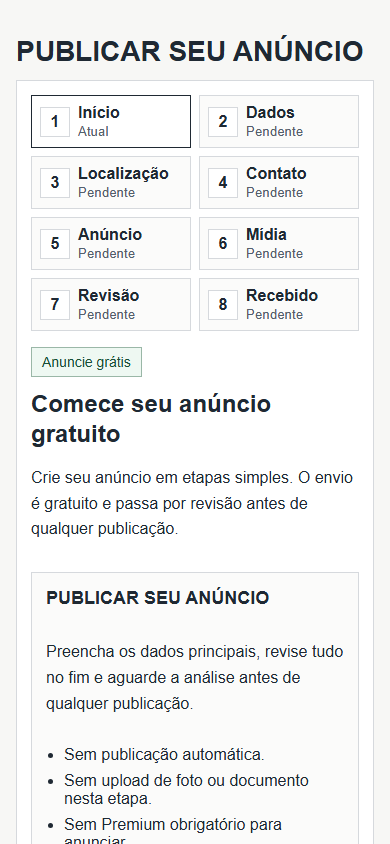
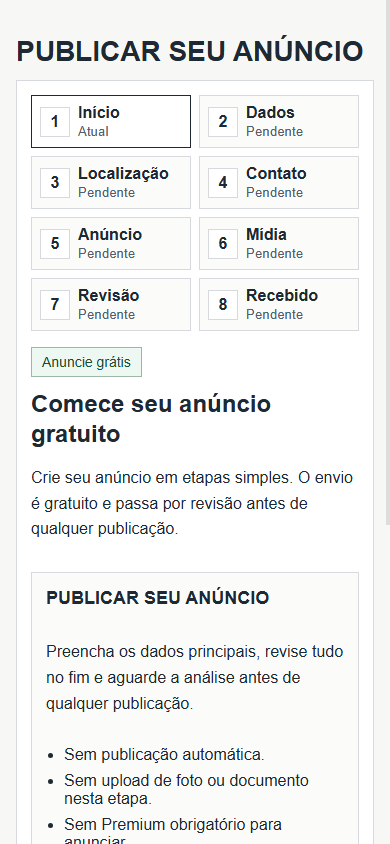
docs: consolida mvp local sintetico ate bloco 41

Changed region(s): [[0.9846, 0.0, 1.0, 0.6469]]

diff --git a/docs/v3/SDD.md b/docs/v3/SDD.md
@@ -1,6 +1,6 @@
 # SDD Tops do Job V3
 
-Documento central de Specification-Driven Development da V3. Ele consolida o estado local do projeto ate o Bloco 40, com checkpoint local `f6189f0` do Bloco 32.1, checkpoint local `b7f5f98` dos Blocos 33/33.1, checkpoint local corrigido `9b677ea` do Bloco 34, checkpoint local `00e1a02` do Bloco 35, checkpoint local `e031ea3` do Bloco 36, checkpoint local `a6f431f` do Bloco 37 corrigido, checkpoint local `587e2df` do Bloco 38, checkpoint local `a3e92c0` do Bloco 39, E2E/API/SEO sintetico aprovado, auditoria renderizada publica aprovada, validacao sintetica do wizard `/anunciar`, paridade local do wizard com a producao observavel, validacao admin/moderacao sintetica local, validacao Premium/beneficios sintetica local, validacao Age Gate/WhatsApp sintetica local aprovada, validacao de midia/fotos/stories sintetica local no Bloco 40, Bloco 29 adiado como gate de pre-staging/cutover, checkpoint local `36b94c6` dos Blocos 29 a 29.6 e base sintetica local validada para continuidade sem dados reais.
+Documento central de Specification-Driven Development da V3. Ele consolida o estado local do projeto ate o Bloco 41, com checkpoint local `f6189f0` do Bloco 32.1, checkpoint local `b7f5f98` dos Blocos 33/33.1, checkpoint local corrigido `9b677ea` do Bloco 34, checkpoint local `00e1a02` do Bloco 35, checkpoint local `e031ea3` do Bloco 36, checkpoint local `a6f431f` do Bloco 37 corrigido, checkpoint local `587e2df` do Bloco 38, checkpoint local `a3e92c0` do Bloco 39, checkpoint local `f67880a` do Bloco 40 corrigido, E2E/API/SEO sintetico aprovado, auditoria renderizada publica aprovada, validacao sintetica do wizard `/anunciar`, paridade local do wizard com a producao observavel, validacao admin/moderacao sintetica local, validacao Premium/beneficios sintetica local, validacao Age Gate/WhatsApp sintetica local aprovada, validacao de midia/fotos/stories sintetica local aprovada e MVP local sintetico consolidado no Bloco 41, Bloco 29 adiado como gate de pre-staging/cutover, checkpoint local `36b94c6` dos Blocos 29 a 29.6 e base sintetica local validada para continuidade sem dados reais.
 
 ## 1. Visao geral
 
@@ -35,6 +35,7 @@ Estado atual:
 - Bloco 38 cria checkpoint local do Bloco 37 corrigido em `a6f431f` e troca rótulos públicos redundantes de status/acesso por copy natural, sem alterar regra de negócio, backend, banco, DTO, rota, contrato, autorização, Premium ou pagamento;
 - Bloco 39 cria checkpoint local do Bloco 38 em `587e2df` e valida Age Gate/WhatsApp sintético local para `LIVRE`/`BLOQUEADO`, sem produção, dados reais, restore, Pix/Efi real, pagamento, API externa ou push;
 - Bloco 40 cria checkpoint local do Bloco 39 em `a3e92c0` e valida mídia/fotos/stories sintéticos, placeholders seguros e sanitização de mídia admin/publica, sem upload real, CDN/storage real, dados reais, produção, restore, Pix/Efi real, pagamento, API externa ou push;
+- Bloco 41 cria checkpoint local do Bloco 40 corrigido em `f67880a` e consolida o MVP local sintetico, revalidando os fluxos principais ja cobertos sem criar funcionalidade nova;
 - dados reais, producao, VPS, banco de producao, Efi real e APIs externas fora de uso.
 
 ## 2. Escopo e limites
@@ -390,6 +391,7 @@ Historico resumido:
 - Bloco 38: checkpoint local do Bloco 37 corrigido criado em `a6f431f`; `Fluxo autorizado` e `Autorização autorizada` deixam de aparecer como pares públicos, substituidos por `Status / Conteúdo disponível` e `Acesso / permitido`.
 - Bloco 39: checkpoint local do Bloco 38 criado em `587e2df`; Age Gate/WhatsApp sintetico local valida `LIVRE` sem age gate, `BLOQUEADO` protegido antes da idade, menor de 18 anos bloqueado, data invalida com 400 e WhatsApp mediado pelo backend.
 - Bloco 40: checkpoint local do Bloco 39 criado em `a3e92c0`; midia publica sintetica valida gratuito ate 2 fotos, Premium com midia extra aditiva, placeholders seguros, stories com idade sem URL real e admin de midia sanitizado.
+- Bloco 41: checkpoint local do Bloco 40 corrigido criado em `f67880a`; MVP local sintetico consolidado com validacoes de publico renderizado, SEO sintetico, wizard, admin/moderacao, Premium/beneficios, Age Gate/WhatsApp, midia/fotos/stories e E2E sintetico.
 
 Detalhes e rastreabilidade ficam em `docs/v3/SDD-indice-rastreabilidade.md`.
 

diff --git a/docs/v3/evidencias/bloco-41/relatorio-validacoes.md b/docs/v3/evidencias/bloco-41/relatorio-validacoes.md
@@ -1,0 +1,33 @@
+# Relatorio de validacoes do Bloco 41
+
+## Status
+
+`OK_BLOCO_41_VALIDACOES_LOCAIS_SINTETICAS`
+
+## Validacoes executadas
+
+- `scripts/local/validar-midia-publica-sintetica-local.ps1`: OK, `OK_MIDIA_PUBLICA_SINTETICA_LOCAL`.
+- `scripts/local/validar-agegate-whatsapp-sintetico-local.ps1`: OK, `OK_AGEGATE_WHATSAPP_SINTETICO_LOCAL`.
+- `scripts/local/validar-publico-renderizado-sintetico-local.ps1`: OK, `OK_PUBLICO_RENDERIZADO_SINTETICO_LOCAL`.
+- `scripts/local/validar-premium-beneficios-sintetico-local.ps1`: OK, `OK_PREMIUM_BENEFICIOS_SINTETICO_LOCAL`.
+- `scripts/local/validar-admin-moderacao-sintetica-local.ps1`: OK, `OK_ADMIN_MODERACAO_SINTETICA_LOCAL`.
+- `scripts/local/validar-wizard-anunciar-sintetico-local.ps1`: OK, `OK_WIZARD_ANUNCIAR_SINTETICO_LOCAL`.
+- `scripts/local/validar-e2e-sintetico-local.ps1`: OK, `OK_E2E_SINTETICO_LOCAL`.
+- `scripts/local/validar-dados-sinteticos-v3-local.ps1`: OK, `OK_DADOS_SINTETICOS_LOCAL`.
+- `scripts/security/verificar-codificacao.ps1`: OK no pre-commit; antes do stage final, sem arquivos staged para revalidar.
+- `scripts/security/verificar-arquivos-proibidos.ps1`: OK no pre-commit; antes do stage final, sem arquivos staged para revalidar.
+- `scripts/security/verificar-segredos.ps1`: OK com fallback local; `gitleaks` permaneceu pendente no PATH.
+- `git diff --check`: OK apos normalizacao de EOF em relatorios UI gerados.
+- `git diff --cached --check`: OK.
+- `git status --short`: delta do Bloco 41 e evidencias regeneradas identificado.
+- `git remote -v`: vazio.
+- backend `mvn -q -DskipTests compile`: OK via Maven local ja disponivel.
+- backend `mvn -q test`: OK via Maven local ja disponivel.
+- frontend `npm run lint`: OK, sem warnings/erros ESLint.
+- frontend `npm run build`: OK, Next.js 15.3.4 gerou 27 paginas.
+
+## Observacoes
+
+- Os validadores que sobem banco local usaram PostgreSQL descartavel, aplicaram 17 migrations, aplicaram fixture sintetica, encerraram backend e removeram container/rede ao final.
+- Nenhum volume persistente foi criado pelos validadores reportados.
+- Nao houve producao, VPS, dados reais, restore, upload real, CDN/storage real, Pix/Efi real, pagamento real, API externa, push ou fase posterior.

diff --git a/docs/v3/232-bloco-41-consolidacao-mvp-local-sintetico.md b/docs/v3/232-bloco-41-consolidacao-mvp-local-sintetico.md
@@ -1,0 +1,52 @@
+# Bloco 41 - Consolidacao do MVP local sintetico
+
+## Objetivo
+
+Consolidar o estado do MVP local sintetico do Tops do Job V3 depois do Bloco 40 corrigido, sem criar funcionalidade nova e sem reabrir escopo de negocio.
+
+## Checkpoint consolidado
+
+- Checkpoint local do Bloco 40 corrigido: `f67880a`.
+- Mensagem do commit: `test: valida midia publica sintetica ate bloco 40`.
+- Remote: vazio.
+- Push: nao executado.
+- Producao, VPS, dados reais, restore, upload real, CDN/storage real, Pix/Efi real, pagamento real, API externa e fase posterior: nao executados.
+
+## Estado do MVP local sintetico
+
+O MVP local sintetico esta consolidado como base local de continuidade, com dados sinteticos versionaveis e ambientes descartaveis/controlados. Esta consolidacao nao autoriza homologacao, cutover, producao ou uso de dados reais/sanitizados.
+
+Fluxos cobertos:
+
+- publico renderizado;
+- SEO sintetico;
+- wizard `/anunciar`;
+- admin/moderacao sintetica;
+- Premium/beneficios sinteticos;
+- Age Gate/WhatsApp sintetico;
+- midia/fotos/stories sinteticos;
+- E2E sintetico local.
+
+## Limites preservados
+
+- Nenhum dado real foi usado.
+- Nenhum restore foi executado.
+- Nenhum upload real foi executado.
+- Nenhum storage/CDN real foi usado.
+- Nenhum Pix/Efi real, pagamento real, checkout real, webhook real ou credito real foi executado.
+- Nenhum e-mail real ou WhatsApp real foi enviado.
+- Nenhuma API externa real foi chamada.
+- Nenhum push ou remote foi configurado.
+- Nenhuma funcionalidade nova foi criada neste bloco.
+
+## Gates para continuidade
+
+Antes de homologacao/cutover continuam obrigatorios:
+
+- revisao Pro quando houver dados reais/sanitizados, financeiro real, Pix/Efi real, webhooks, importador real, autenticacao/RBAC de producao ou producao;
+- resolver materialmente o Bloco 29 com restore completo consistente ou decisao segura equivalente;
+- validar staging com base aprovada;
+- revisar CDN/storage publico;
+- revisar auditoria JSON e CSRF/admin para ambientes nao locais;
+- validar SEO real, redirecionamentos, canonical, sitemap, robots e rollback;
+- manter secrets, backups, dumps, logs brutos e midia real fora do repositorio e do ZIP.

diff --git a/docs/v3/evidencias/bloco-41/relatorio-consolidacao-mvp-local-sintetico.md b/docs/v3/evidencias/bloco-41/relatorio-consolidacao-mvp-local-sintetico.md
@@ -1,0 +1,22 @@
+# Relatorio de consolidacao do MVP local sintetico
+
+## Status consolidado
+
+O MVP local sintetico esta consolidado para continuidade local controlada. A base validada cobre os fluxos principais com dados sinteticos, sem autorizar homologacao, cutover, producao ou uso de dados reais/sanitizados.
+
+## Fluxos cobertos
+
+- Publico renderizado: rotas principais renderizadas com copy publica sem bastidor tecnico e sem mojibake.
+- SEO sintetico: rotas preservadas, sitemap/robots/canonical locais e ausencia de dominio de producao em ambiente local.
+- Wizard `/anunciar`: fluxo progressivo sintetico, sem upload real, pagamento, Pix/Efi, Premium obrigatorio, e-mail real, WhatsApp real ou autopublicacao.
+- Admin/moderacao: listagem, detalhe e acoes locais sinteticas ja autorizadas, com auditoria sanitizada e sem envio externo.
+- Premium/beneficios: gratuito util, Premium aditivo, beneficios ativos/expirados e expiracao conjunta em dados sinteticos.
+- Age Gate/WhatsApp: `LIVRE` sem age gate, `BLOQUEADO` protegido antes da idade e WhatsApp mediado pelo backend.
+- Midia/fotos/stories: fotos sinteticas, placeholders seguros, stories controlados por idade e sem storage/CDN real.
+- E2E sintetico: PostgreSQL descartavel, backend/frontend locais e fixture versionavel sem dados reais.
+
+## Resultado de aprovacao local
+
+Status documental: `MVP_LOCAL_SINTETICO_VALIDADO`.
+
+As validacoes do Bloco 41 passaram localmente com dados sinteticos e ambientes descartaveis/controlados. A aprovacao local nao libera homologacao, cutover, producao, dados reais/sanitizados, restore completo, financeiro real, Pix/Efi real, webhooks, upload real, CDN/storage real, e-mail real, WhatsApp real, API externa ou importador real.

diff --git a/docs/v3/evidencias/bloco-41/relatorio-pendencias-homologacao-cutover.md b/docs/v3/evidencias/bloco-41/relatorio-pendencias-homologacao-cutover.md
@@ -1,0 +1,22 @@
+# Relatorio de pendencias para homologacao e cutover
+
+## Pendencias obrigatorias
+
+- Bloco 29 permanece materialmente aberto e adiado para pre-staging/cutover.
+- Quarentena sanitizada sem `POST_DATA` continua proibida para staging final.
+- E necessario novo backup consistente ou decisao segura aprovada para restauracao completa antes de staging final.
+- Dados reais/sanitizados exigem gate proprio, revisao Pro quando aplicavel e proibicao de versionar dados sensiveis.
+- Flyway real e schema final seguem dependentes dos gates de homologacao.
+- Autenticacao/RBAC de producao exige CSRF, cookie seguro, rate limit, politica de credencial, auditoria e logs revisados.
+- Auditoria JSON completa permanece pendencia Pro antes de homologacao/producao.
+- CDN/storage publico exige politica aprovada, separacao de midia publica/privada e protecao de documentos.
+- Pix/Efi real exige homologacao propria, credenciais fora do Git, webhook revisado e logs sem payload sensivel.
+- Importador real exige fonte autorizada, diretorio fora do workspace e plano de rollback.
+- SEO real exige mapa completo de URLs, 301 testado, canonical/sitemap/robots aprovados, Search Console e rollback.
+- Backup, rollback, observabilidade e plano operacional de cutover precisam ser aprovados antes de producao.
+
+## Bloqueios explicitos
+
+- Nao usar banco de quarentena como staging final.
+- Nao usar producao como bancada de teste.
+- Nao executar restore, sanitizacao, importador real, Pix/Efi real, webhooks, upload real, e-mail real, WhatsApp real ou API externa sem bloco proprio e autorizacao expressa.

diff --git a/docs/v3/SDD-pendencias-gates.md b/docs/v3/SDD-pendencias-gates.md
@@ -391,6 +391,22 @@ Antes de admin em ambiente nao local:
 - Autenticacao/RBAC de producao, auditoria JSON de homologacao/producao, dados reais/sanitizados, financeiro, Pix/Efi, webhooks, importador real e producao continuam exigindo Pro.
 - `gitleaks` real segue pendente no PATH quando nao instalado; fallback local permanece ativo.
 
+## Pendencias do Bloco 37 ao Bloco 40
+
+- Bloco 37 corrigido removeu copy visivel tecnica/local/sintetica e deve permanecer protegido pelos validadores renderizados.
+- Bloco 38 poliu rotulos publicos de status sem alterar regra de autorizacao.
+- Bloco 39 validou Age Gate/WhatsApp sintetico para `LIVRE` e `BLOQUEADO`, mantendo WhatsApp mediado pelo backend.
+- Bloco 40 corrigido validou midia/fotos/stories sinteticos e corrigiu a cadeia de encoding que gerava mojibake em prints publicos.
+- Checkpoint local do Bloco 40 corrigido: `f67880a`.
+
+## Pendencias do Bloco 41
+
+- MVP local sintetico consolidado como base local, nao como aprovacao de homologacao/cutover.
+- Bloco 29 permanece materialmente aberto e adiado para pre-staging/cutover.
+- Quarentena sanitizada sem `POST_DATA` continua proibida para staging final.
+- Pro continua obrigatorio antes de dados reais/sanitizados, restore completo, autenticacao/RBAC de producao, financeiro real, Pix/Efi real, webhooks, importador real, homologacao ou producao.
+- `gitleaks` real segue pendente no PATH quando nao instalado; fallback local permanece ativo nas validacoes locais.
+
 ## Proibicoes ate novo bloco autorizado
 
 - nao iniciar fase posterior implicitamente;

diff --git a/docs/v3/233-checklist-bloco-41-consolidacao-mvp-local-sintetico.md b/docs/v3/233-checklist-bloco-41-consolidacao-mvp-local-sintetico.md
@@ -1,0 +1,49 @@
+# Checklist Bloco 41 - Consolidacao do MVP local sintetico
+
+## Checkpoint
+
+- [x] `git status --short` executado antes do commit.
+- [x] `git remote -v` executado e vazio.
+- [x] `git diff --check` executado.
+- [x] `git diff --cached --check` executado.
+- [x] Scanners de seguranca executados antes do commit.
+- [x] Commit local do Bloco 40 corrigido criado: `f67880a`.
+- [x] Push nao executado.
+
+## Consolidacao
+
+- [x] Relatorio unico do MVP local sintetico criado.
+- [x] SDD atualizado com checkpoint do Bloco 40 corrigido.
+- [x] Rastreabilidade atualizada.
+- [x] Decisoes consolidadas atualizadas.
+- [x] Pendencias/gates atualizados.
+- [x] Nenhuma funcionalidade nova criada.
+
+## Validacoes do bloco
+
+- [x] Midia publica sintetica.
+- [x] Age Gate/WhatsApp sintetico.
+- [x] Publico renderizado sintetico.
+- [x] Premium/beneficios sintetico.
+- [x] Admin/moderacao sintetica.
+- [x] Wizard `/anunciar` sintetico.
+- [x] E2E sintetico local.
+- [x] Dados sinteticos V3.
+- [x] Scanners de seguranca.
+- [x] Backend compile/test.
+- [x] Frontend lint/build.
+- [x] ZIP de revisao gerado.
+
+## Proibicoes confirmadas
+
+- [x] Sem producao.
+- [x] Sem VPS.
+- [x] Sem dados reais.
+- [x] Sem restore.
+- [x] Sem upload real.
+- [x] Sem CDN/storage real.
+- [x] Sem Pix/Efi real.
+- [x] Sem pagamento real.
+- [x] Sem API externa.
+- [x] Sem push.
+- [x] Sem fase posterior.

diff --git a/docs/v3/evidencias/bloco-41/relatorio-riscos-residuais.md b/docs/v3/evidencias/bloco-41/relatorio-riscos-residuais.md
@@ -1,0 +1,18 @@
+# Relatorio de riscos residuais do Bloco 41
+
+## Riscos residuais
+
+- `gitleaks` real nao esta no PATH; fallback local de secrets segue ativo nas validacoes locais, mas `gitleaks` permanece gate antes de homologacao/producao.
+- Bloco 29 nao esta materialmente fechado; restore completo com dados reais/sanitizados ainda depende de decisao segura e revisao Pro/humana.
+- Quarentena sem `POST_DATA` nao valida comportamento transacional final.
+- CDN/storage publico real ainda nao foi aprovado.
+- Pix/Efi real, checkout, pagamento, webhook, credito real e conciliacao real continuam fora do MVP local sintetico.
+- Autenticacao/RBAC de producao, CSRF e auditoria JSON completa ainda exigem hardening antes de ambientes nao locais.
+- SEO real/cutover dependem de mapa completo, Search Console, 301, canonical/sitemap/robots e rollback.
+
+## Mitigacao atual
+
+- Manter desenvolvimento em ambiente local sintetico.
+- Rodar validadores sinteticos antes de qualquer mudanca nos fluxos cobertos.
+- Nao versionar dados reais, dumps, backups, logs brutos, midia real, documentos, secrets ou arquivos de ambiente.
+- Exigir bloco proprio e autorizacao expressa para qualquer etapa com dados reais/sanitizados, financeiro real, Pix/Efi, importador real, homologacao ou producao.

diff --git a/README.md b/README.md
@@ -4,7 +4,9 @@ Este repositório contém o trabalho inicial da V3 do Tops do Job.
 
 ## Estado atual
 
-Estado atual: **Bloco 37 em execução local: checkpoint do Bloco 36 criado e limpeza de copy visível local/sintética em validação, sem dados reais e sem efeitos externos.**
+Estado atual: **Bloco 41 em execução local: checkpoint do Bloco 40 corrigido criado e consolidação do MVP local sintético em validação, sem dados reais e sem efeitos externos.**
+
+O checkpoint local do Bloco 40 corrigido foi criado em `f67880a` com a mensagem `test: valida midia publica sintetica ate bloco 40`, remote vazio e sem push. O Bloco 41 consolida o estado do MVP local sintético, cobrindo público renderizado, SEO sintético, wizard `/anunciar`, admin/moderação, Premium/benefícios, Age Gate/WhatsApp, mídia/fotos/stories e E2E sintético, sem criar funcionalidade nova.
 
[1 lines of base64/hex data omitted]
 

diff --git a/docs/v3/SDD-decisoes-consolidadas.md b/docs/v3/SDD-decisoes-consolidadas.md
@@ -175,6 +175,13 @@ Este documento consolida decisoes ja assumidas pela V3 e evita que blocos futuro
 - Nao instalar ou baixar ferramenta/imagem automaticamente para abrir dump sensivel.
 - Validacao SEO com dados sanitizados depende de restore e sanitizacao concluidos.
 
+## MVP local sintetico consolidado
+
+- O Bloco 41 consolida o MVP local sintetico como base de continuidade local, nao como autorizacao de homologacao, cutover ou producao.
+- A consolidacao cobre apenas dados sinteticos versionaveis e ambientes descartaveis/controlados.
+- Publico renderizado, SEO sintetico, wizard `/anunciar`, admin/moderacao, Premium/beneficios, Age Gate/WhatsApp, midia/fotos/stories e E2E sintetico devem permanecer gates antes de novas mudancas que afetem esses fluxos.
+- Qualquer uso de dados reais/sanitizados, restore completo, financeiro real, Pix/Efi real, webhook, API externa, storage/CDN real, upload real, importador real, staging final, homologacao ou producao continua dependente de bloco proprio, revisao Pro quando aplicavel e autorizacao expressa.
+
 ## Banco e migrations
 
 - V001 a V017 sao a base de schema auditada ate aqui.

diff --git a/docs/v3/SDD-indice-rastreabilidade.md b/docs/v3/SDD-indice-rastreabilidade.md
@@ -241,6 +241,10 @@ Este indice conecta os temas centrais do SDD aos documentos, contratos, scripts 
 - Checklist Bloco 40: `docs/v3/231-checklist-bloco-40-midia-publica-sintetica.md`
 - Evidencias Bloco 40: `docs/v3/evidencias/bloco-40/`
 - Validador midia publica sintetica: `scripts/local/validar-midia-publica-sintetica-local.ps1`
+- Relatorio Bloco 41: `docs/v3/232-bloco-41-consolidacao-mvp-local-sintetico.md`
+- Checklist Bloco 41: `docs/v3/233-checklist-bloco-41-consolidacao-mvp-local-sintetico.md`
+- Evidencias Bloco 41: `docs/v3/evidencias/bloco-41/`
+- Checkpoint Bloco 40 corrigido: `f67880a`
 - Relatorio de polimento de status publico: `docs/v3/evidencias/bloco-38/relatorio-polimento-status-publico.md`
 - Validadores de status publico: `scripts/local/validar-publico-renderizado-sintetico-local.ps1`, `scripts/local/validar-premium-beneficios-sintetico-local.ps1`
 

diff --git a/docs/v3/evidencias/bloco-41/relatorio-checkpoint-bloco-40.md b/docs/v3/evidencias/bloco-41/relatorio-checkpoint-bloco-40.md
@@ -1,0 +1,23 @@
+# Relatorio de checkpoint do Bloco 40 corrigido
+
+## Resultado
+
+- Commit criado: sim.
+- Hash curto: `f67880a`.
+- Mensagem: `test: valida midia publica sintetica ate bloco 40`.
+- Remote apos checkpoint: vazio.
+- Push executado: nao.
+
+## Validacoes pre-commit
+
+- `git status --short`: delta staged do Bloco 40 corrigido identificado antes do commit.
+- `git remote -v`: vazio.
+- `git diff --check`: OK.
+- `git diff --cached --check`: OK.
+- `scripts/security/verificar-codificacao.ps1`: OK.
+- `scripts/security/verificar-arquivos-proibidos.ps1`: OK.
+- `scripts/security/verificar-segredos.ps1`: OK com fallback local; `gitleaks` permaneceu pendente no PATH.
+
+## Proibicoes preservadas
+
+Nao houve producao, VPS, dados reais, restore, upload real, CDN/storage real, Pix/Efi real, pagamento real, API externa, remote, push ou fase posterior.
